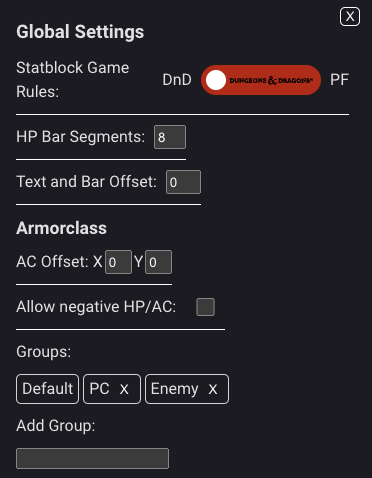
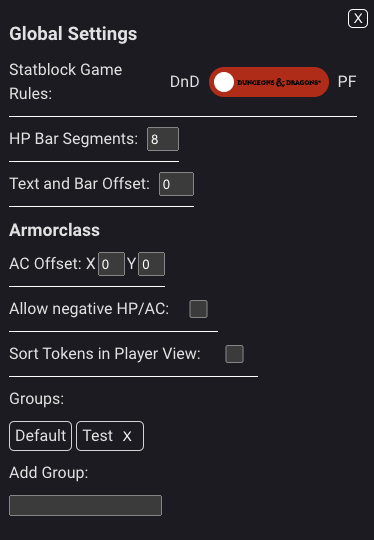
Add sortable playerview setting

diff --git a/src/components/modal/Components/Settings.tsx b/src/components/modal/Components/Settings.tsx
@@ -22,6 +22,7 @@ export const Settings = () => {
         false
     );
     const [ruleset, setStateRuleset] = useLocalStorage<Ruleset>(`${ID}.ruleset`, "e5");
+    const [playerSort, setPlayerSort] = useLocalStorage<boolean>(`${ID}.playerSort`, false);
     const { isReady } = SceneReadyContext();
     const [sceneId, setSceneId] = useState<string | null>(null);
 
@@ -36,6 +37,7 @@ export const Settings = () => {
             hpTrackerSceneMetadata.hpBarSegments = segments;
             hpTrackerSceneMetadata.allowNegativeNumbers = allowNegativNumbers;
             hpTrackerSceneMetadata.ruleset = ruleset;
+            hpTrackerSceneMetadata.playerSort = playerSort;
             const ownMetadata: Metadata = {};
             ownMetadata[sceneMetadata] = hpTrackerSceneMetadata;
 
@@ -44,7 +46,7 @@ export const Settings = () => {
         if (isReady) {
             setSceneMetadata();
         }
-    }, [offset, segments, allowNegativNumbers, ruleset, acOffset]);
+    }, [offset, segments, allowNegativNumbers, ruleset, acOffset, playerSort]);
 
     const handleOffsetChange = (value: number) => {
         updateHpOffset(value);
@@ -163,16 +165,6 @@ export const Settings = () => {
                                 }}
                             />
                         </div>
-                        {/*<div className={"ac-shield setting"}>
-                            Show Shield:
-                            <input
-                                type={"checkbox"}
-                                checked={acShield}
-                                onChange={() => {
-                                    setAcShield(!acShield);
-                                }}
-                            />
-                        </div>*/}
                     </div>
                     <div className={"negative-numbers setting"}>
                         Allow negative HP/AC:
@@ -182,6 +174,17 @@ export const Settings = () => {
                             onChange={() => {
                                 setAllowNegativeNumbers(!allowNegativNumbers);
                                 plausibleEvent("negative-numbers", (!allowNegativNumbers).toString());
+                            }}
+                        />
+                    </div>
+                    <div className={"player-sort setting"}>
+                        Sort Tokens in Player View:
+                        <input
+                            type={"checkbox"}
+                            checked={playerSort}
+                            onChange={() => {
+                                setPlayerSort(!playerSort);
+                                plausibleEvent("player-sort", (!playerSort).toString());
                             }}
                         />
                     </div>

diff --git a/src/components/hptracker/HPTracker.tsx b/src/components/hptracker/HPTracker.tsx
@@ -18,7 +18,7 @@ import { useCharSheet } from "../../context/CharacterContext.ts";
 import { CharacterSheet } from "./charactersheet/CharacterSheet.tsx";
 import { SceneReadyContext } from "../../context/SceneReadyContext.ts";
 import { DropGroup } from "./DropGroup.tsx";
-import { plausibleEvent, sortItems } from "../../helper/helpers.ts";
+import { plausibleEvent, sortItems, sortItemsInitiative } from "../../helper/helpers.ts";
 import { compare } from "compare-versions";
 
 export const HPTracker = () => {
@@ -32,6 +32,7 @@ export const HPTracker = () => {
 const Content = () => {
     const playerContext = usePlayerContext();
     const [tokens, setTokens] = useState<Item[] | undefined>(undefined);
+    const [playerTokens, setPlayerTokens] = useState<Array<Item>>([]);
     const [selectedTokens, setSelectedTokens] = useState<Array<string>>([]);
     const [tokenLists, setTokenLists] = useState<Map<string, Array<Item>>>(new Map());
     const [currentSceneMetadata, setCurrentSceneMetadata] = useState<SceneMetadata | null>(null);
@@ -102,6 +103,15 @@ const Content = () => {
 
         setTokenLists(tokenMap);
     }, [currentSceneMetadata?.groups, tokens]);
+
+    useEffect(() => {
+        if (currentSceneMetadata?.playerSort && tokens) {
+            const localTokens = [...tokens];
+            setPlayerTokens(localTokens.sort(sortItemsInitiative));
+        } else {
+            setPlayerTokens(tokens ?? []);
+        }
+    }, [currentSceneMetadata?.playerSort, tokens]);
 
     const reorderMetadataIndex = (list: Array<Item>, group?: string) => {
         OBR.scene.items.updateItems(list, (items) => {
@@ -265,7 +275,7 @@ const Content = () => {
                         )}
                     </DragDropContext>
                 ) : (
-                    <PlayerTokenList tokens={tokens ?? []} selected={selectedTokens} metadata={currentSceneMetadata!} />
+                    <PlayerTokenList tokens={playerTokens} selected={selectedTokens} metadata={currentSceneMetadata!} />
                 )}
             </div>
         )

diff --git a/src/helper/helpers.ts b/src/helper/helpers.ts
@@ -99,6 +99,21 @@ export const sortItems = (a: Item, b: Item) => {
     return 0;
 };
 
+export const sortItemsInitiative = (a: Item, b: Item) => {
+    const aData = a.metadata[characterMetadata] as HpTrackerMetadata;
+    const bData = b.metadata[characterMetadata] as HpTrackerMetadata;
+    if (aData && bData && aData.initiative !== undefined && bData.initiative !== undefined) {
+        if (aData.initiative < bData.initiative) {
+            return 1;
+        } else if (aData.initiative > bData.initiative) {
+            return -1;
+        } else {
+            return 0;
+        }
+    }
+    return 0;
+};
+
 export const generateSlug = (string: string) => {
     let str = string.replace(/^\s+|\s+$/g, "");
     str = str.toLowerCase();

diff --git a/src/obr/init.ts b/src/obr/init.ts
@@ -75,6 +75,7 @@ const initScene = async () => {
             allowNegativNumbers: false,
             id: uuidv4(),
             groups: ["Default"],
+            playerSort: false,
         };
     } else {
         const sceneData = metadata[sceneMetadata] as SceneMetadata;
@@ -112,6 +113,9 @@ const initScene = async () => {
         }
         if (!sceneData.acShield) {
             sceneData.acShield = true;
+        }
+        if (!sceneData.playerSort) {
+            sceneData.playerSort = false;
         }
         ownMetadata[sceneMetadata] = sceneData;
     }

diff --git a/src/main.scss b/src/main.scss
@@ -9,7 +9,7 @@
     color-scheme: light dark;
     font-weight: 400;
     line-height: 1.5;
-    font-family: Roboto, sans-serif;
+    font-family: Roboto, system-ui, sans-serif, sans-serif;
 
     font-synthesis: none;
     text-rendering: optimizeLegibility;
@@ -47,4 +47,13 @@ h1 {
     padding: 1rem;
     max-width: 1280px;
     text-align: center;
+}
+
+input[type="text"] {
+    border: 1px solid grey;
+    border-radius: 4px;
+    background-color: #2b2a33;
+    min-width: 22px;
+    height: 22px;
+    font-size: 0.8em;
 }

diff --git a/src/helper/variables.ts b/src/helper/variables.ts
@@ -6,7 +6,7 @@ export const characterMetadata = `${ID}/data`;
 export const infoMetadata = `${ID}/text`;
 
 export const modalId = `${ID}/modal`;
-export const version = "1.4.1";
+export const version = "1.4.2";
 
 export const changelogModal: Modal = {
     id: modalId,
@@ -24,5 +24,5 @@ export const settingsModal: Modal = {
     id: modalId,
     url: "/modal.html?content=settings",
     width: 400,
-    height: 500,
+    height: 600,
 };

diff --git a/src/helper/types.ts b/src/helper/types.ts
@@ -30,6 +30,7 @@ export type SceneMetadata = {
     ruleset?: Ruleset;
     groups?: Array<string>;
     openChangeLog?: boolean;
+    playerSort: boolean;
 };
 
 export type AttachmentMetadata = {

diff --git a/USAGE.md b/USAGE.md
@@ -80,6 +80,7 @@ The following settings are available:
 + Text and Bar Offset: To have a more flexible positioning of the HP Bar and Text, a value can be entered (negative or positive number) and the position of the HP Bar and Text is then adjusted by this value
 + Armorclass Icon and Text Offset: To have a more flexible positioning of the AC Background and Text a offset for the X- and Y-Axis can be added. This value is scaled considering the Token size. 
 + Allow negative HP/AC: By default negative HP and AC are not allowed but when this settings is checked then HP and AC can be set to negative numbers. The HP Bar will always display negative HP the same as when it is 0.
++ Sort Tokens in Player View: When active, the [Player Action Window](#player-action-window) will display Tokens ordered by their initiative value. If not active, Tokens will have the same order as they were added to the scene (so kind of random).
 + Groups: This setting allows you to define different Groups used for ordering Tokens. There is a permanent "Default" group. The groups can be rearranged by dragging and dropping them in the desired order. To add a group use the text input below the group list. Press "Enter" to add a group to the list. Tokens in the HP Tracker remember their group association (if the group is deleted) but are added into the default group until they are moved to a different group. So deleting and re-adding the same group restores the previously associated tokens to that same group.
 
 #### Token List
@@ -194,6 +195,8 @@ The statblock shows all the creature information including available spells and 
 The Player Action Window has reduced functionality compared to the GM Action Window. Tokens that have either the HP Bar or Player Visibility enabled show up in this window. Items that are invisible (hidden) within the scene don't show up here!
 
 For tokens that have the Player Visibility set, their name change option, values, and statblock are shown. Otherwise just the dynamic-color background is there to indicate the current status of the creature.
+
+Tokens don't follow the drag and drop order in the [GM Action Window](#hp-tracker-action-window). But when activated in the [Settings](#global-settings) Tokens will be ordered by their initiative value.
 
 ### Hp Tracker Context Item
 

diff --git a/CHANGELOG.md b/CHANGELOG.md
@@ -1,3 +1,10 @@
+# 1.4.2
+
++ Add Setting to toggle Token Sorting in the Player Action Window
+  + When Sorting is active Tokens will be sorted by their Initiative value
+  + When Sorting is inactive Tokens will appear in the same order as they were dropped into the scene
++ Small UI Improvements to make HP Tracker look the same in different browsers
+
 # 1.4.1
 
 + Consider supporting me on [Patreon](https://patreon.com/TTRPGAPI?utm_medium=clipboard_copy&utm_source=copyLink&utm_campaign=creatorshare_creator&utm_content=join_link) so I can spend more time improving HP Tracker.
